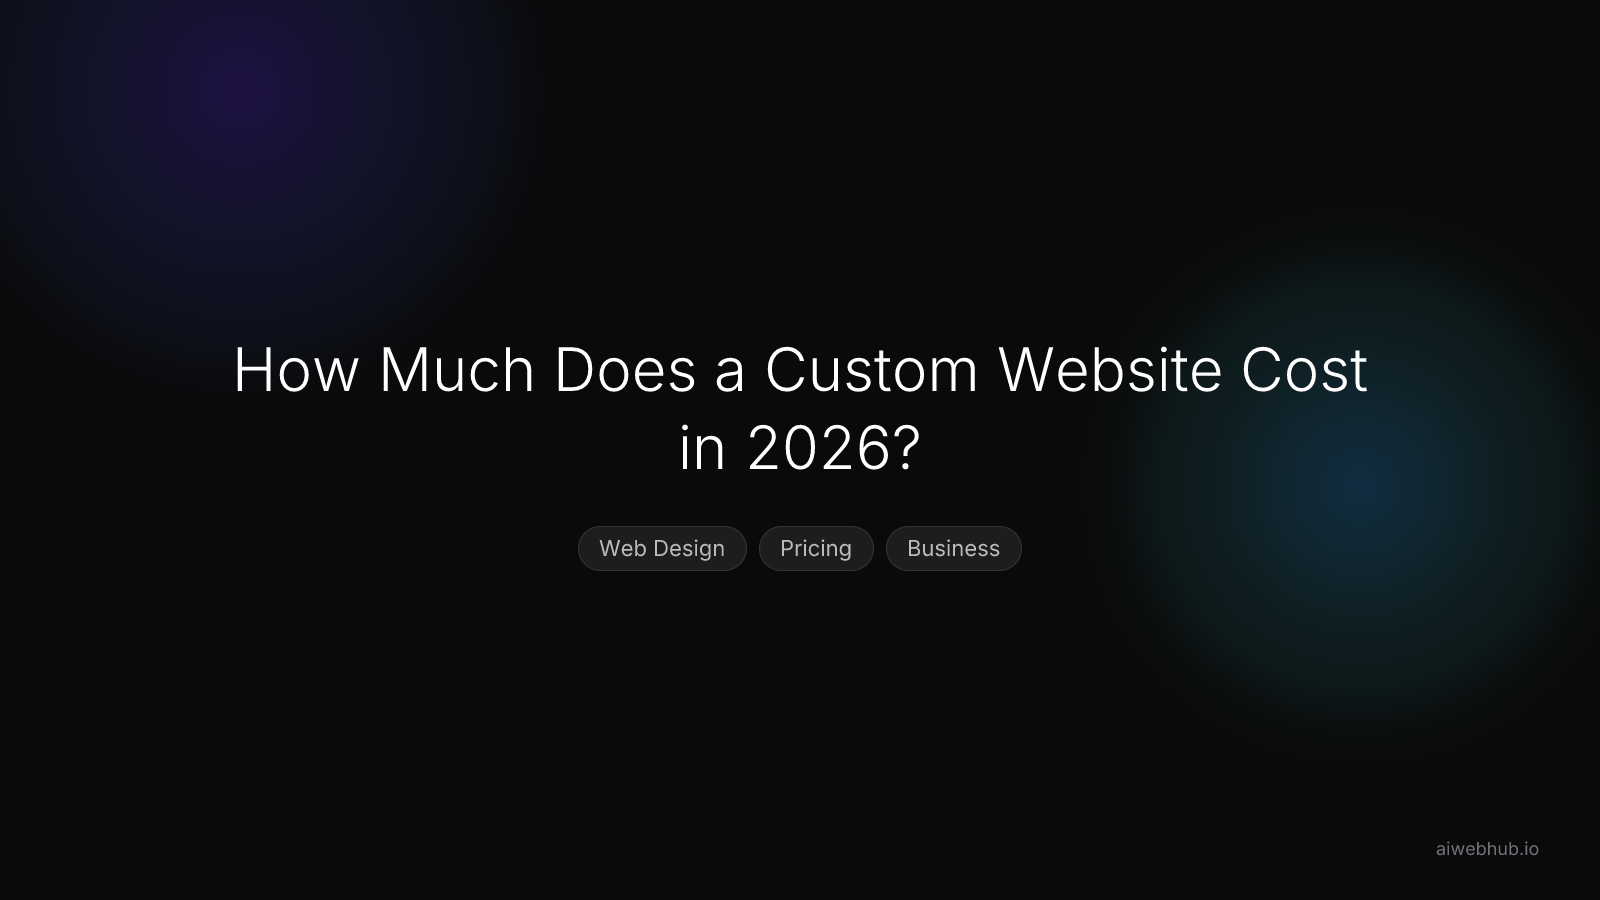
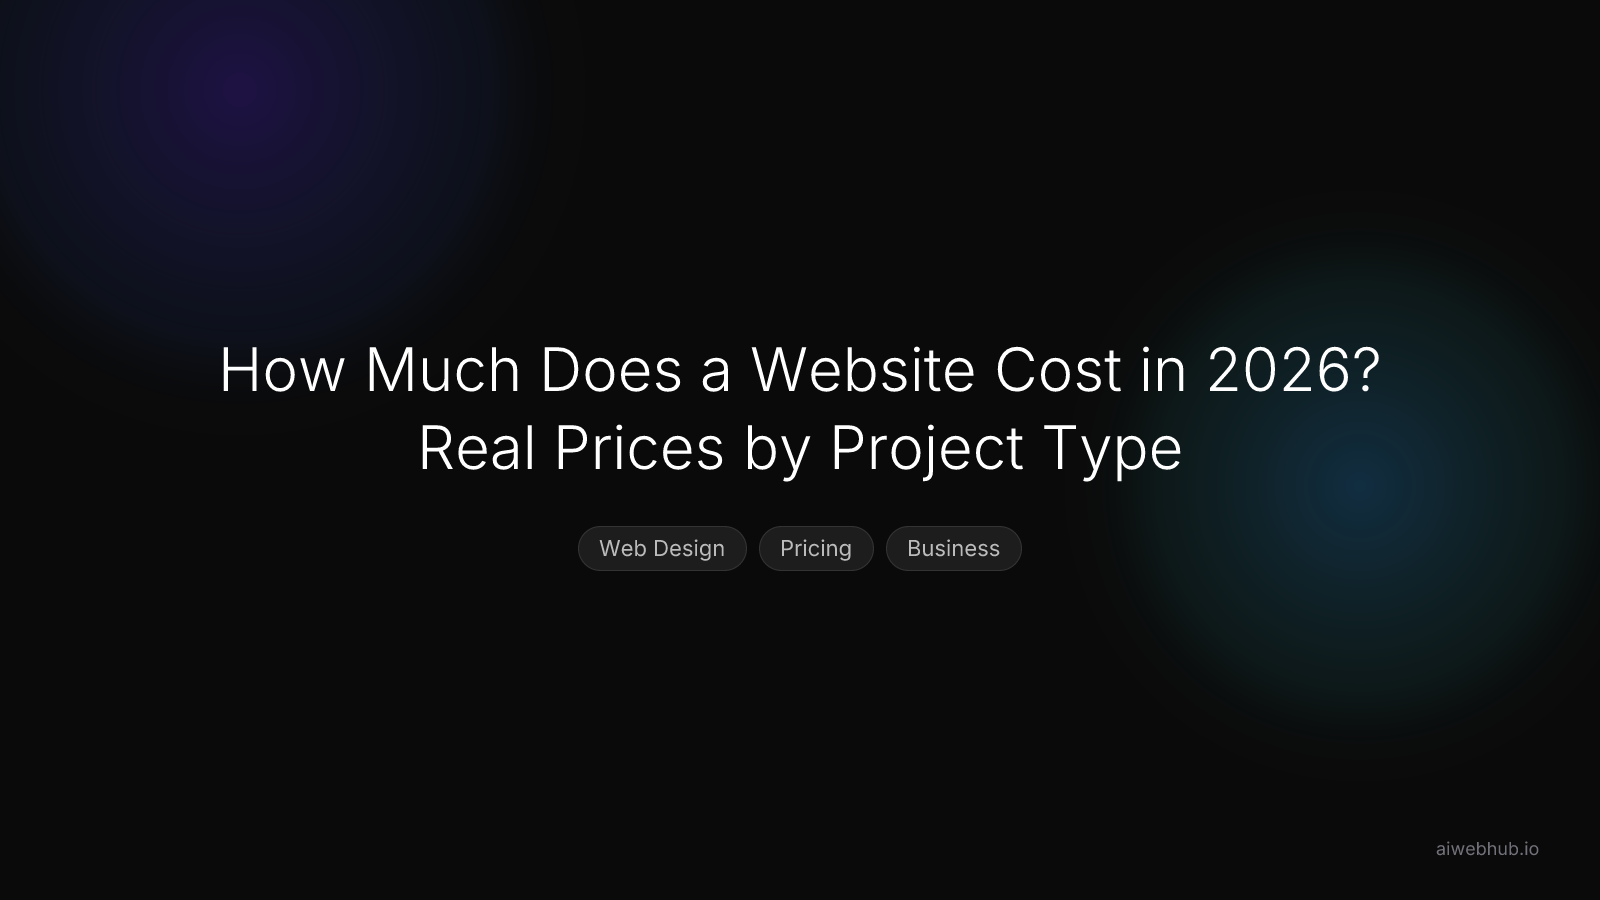
feat: retarget pricing post to 'how much does a website cost' (#18) (#32)
- New title + H1: "How Much Does a Website Cost in 2026? Real Prices by Project Type"; slug unchanged, no redirect
- Rewrote body figures to the same GoodFirms 2026 / WebFX 2026 survey bands the cost calculator renders; no AIWebHub prices anywhere
- Added a market-rate table with one row per /services project type (landing page, multi-page site, e-commerce, AI agent), both survey columns labeled by market side
- Linked the post to /tools/website-cost-calculator, /services, /contact and two related posts
- Extended the blog renderer with inline markdown links and pipe-table support (also fixes literal [link](url) text in the AI-search post)
- Regenerated the post's social image with the new title; updated title test; readTime recalculated

Changed region(s): [[0.125, 0.3733, 0.875, 0.4356], [0.25, 0.4667, 0.75, 0.5289]]

diff --git a/lib/blog-posts.ts b/lib/blog-posts.ts
@@ -15,52 +15,73 @@ export interface BlogPost {
 const blogPosts: BlogPost[] = [
   {
     slug: "how-much-does-a-custom-website-cost-in-2026",
-    title: "How Much Does a Custom Website Cost in 2026?",
-    excerpt: "A comprehensive breakdown of custom website pricing in 2026, covering landing pages, business sites, and e-commerce stores with real cost ranges and what affects your final price.",
+    title: "How Much Does a Website Cost in 2026? Real Prices by Project Type",
+    excerpt: "Surveyed 2026 market rates for landing pages, business websites, e-commerce stores, and AI agents — and why the two best pricing surveys disagree by up to 5x.",
     author: "Cosmin Balaur",
     authorTitle: "Founder & Lead Developer at AIWebHub",
     publishedDate: "2026-01-15",
-    modifiedDate: "2026-02-16",
+    modifiedDate: "2026-08-05",
     tags: ["Web Design", "Pricing", "Business"],
-    readTime: "8 min read",
+    readTime: "7 min read",
     image: "/blog/how-much-does-a-custom-website-cost-in-2026.png",
-    content: `The cost of a custom website in 2026 varies significantly based on the type of site, the features you need, and the level of customization required. Whether you are a small business owner launching your first website or an established company looking to redesign, understanding the real costs involved helps you budget effectively and avoid surprises.
+    content: `How much does a website cost in 2026? For most business projects, somewhere between $1,000 and $50,000 — and the honest answer depends as much on who you ask as on what you build. The two best available pricing surveys disagree by up to 5x on the same project. GoodFirms, which surveyed more than 300 web development firms across 31 countries, found most agencies quote $1,000–$3,000 for a basic website. WebFX, which surveyed 250 US-based marketing professionals, found US buyers report actually paying $6,500–$15,000 for the same tier. Neither number is wrong. This guide breaks down what each project type really costs, why the estimates spread that far, and how to turn a market range into a number for your own project.
 
-## Landing Pages: $300 to $1,500
+## Website Costs at a Glance: 2026 Market Rates by Project Type
 
-A landing page is a single-page website designed to convert visitors into leads or customers. It typically includes a hero section, service or product overview, testimonials, and a contact form or call-to-action. Landing pages are ideal for businesses that need a focused online presence without the complexity of a multi-page site.
+The table below shows general market rates, not AIWebHub prices — we quote every project to its scope. Each band is a range one of the two surveys actually published, shown here for a typical small-business build of each type, roughly one to fifteen pages. For a larger scope, our free [website cost calculator](/tools/website-cost-calculator) adjusts these same survey bands to your project size and shows both sides of the market for your exact configuration.
 
-At the lower end, template-based landing pages with minimal customization cost between $300 and $500. Custom-designed landing pages with unique layouts, animations, and brand-specific visual elements range from $500 to $1,500. Factors that increase the cost include custom illustrations, video integration, A/B testing setups, and advanced form integrations with CRM systems.
+| Project type | GoodFirms 2026 (global agencies quote) | WebFX 2026 (US buyers report paying) |
+| --- | --- | --- |
+| Landing page (single page) | $1,000–$3,000 | $6,500–$15,000 |
+| Multi-page business website | $5,000–$20,000 | $6,500–$15,000 |
+| E-commerce store | $5,000–$50,000 | $6,500–$15,000 |
+| AI agent (custom web application) | $20,000–$50,000 | $15,000–$50,000 |
 
-## Multi-Page Business Websites: $800 to $5,000
+Two patterns are worth noticing before anything else. Reading down the GoodFirms column, price scales with complexity, from a single conversion-focused page up to a full application. Reading across any row, the US buy-side figure runs well above the global sell-side quote. WebFX's survey has only three tiers, and everything up to a mid-sized build lands in the first one — which is itself a finding: US buyers report paying $6,500–$15,000 even for projects that agencies worldwide quote at $1,000–$3,000.
 
-A multi-page business website typically includes a homepage, about page, services page, portfolio or gallery, contact page, and potentially a blog. These sites provide a comprehensive overview of your business and are suitable for service-based companies, professional practices, and local businesses.
+## Why Do Website Cost Estimates Disagree So Much?
 
-Template-based solutions with content management systems start around $800 to $1,500. Fully custom designs with unique page layouts, content strategy, and interactive elements range from $1,500 to $5,000. The price increases with the number of pages, custom functionality like booking systems or client portals, and the depth of SEO optimization included in the initial build.
+Website cost estimates disagree because the two sides of the market are answering different questions. GoodFirms 2026 surveyed more than 300 web development firms across 31 countries — sell-side data, the prices agencies say they quote. Its own hourly-rate table puts developers in India, Pakistan, and Vietnam at $10–$15 per hour against $50–$100 per hour in the US, so its global averages sit well below what a US buyer is actually quoted. WebFX 2026 surveyed 250 US-based marketing professionals — buy-side data, what people report having paid, which includes the revisions, content work, and scope creep a quote never mentions. That is how the same basic small-business website can be $1,000–$3,000 in one survey and $6,500–$15,000 in the other. Averaging the two would manufacture a precision neither source supports, so this guide keeps both bands visible and labeled by who published them.
 
-## E-commerce Stores: $1,500 to $15,000
+## How Much Does a Landing Page Cost?
 
-E-commerce websites require additional functionality including product catalogs, shopping cart systems, secure payment processing, inventory management, and order tracking. The complexity of your product offering and the integrations you need significantly affect the final cost.
+A landing page is a single-page website designed to convert visitors into leads or customers, typically with a hero section, a service or product overview, social proof, and one prominent call to action. In the GoodFirms 2026 survey, 59.9% of firms quote a basic website or MVP at $1,000–$3,000, and 71% deliver it in two to four weeks. US buy-side data runs higher: WebFX puts a basic small-business site at $6,500–$15,000.
 
-Basic e-commerce stores with standard product listings and payment processing start at $1,500 to $3,000. Mid-range stores with custom product configurators, subscription models, and multi-channel inventory sync range from $3,000 to $8,000. Enterprise-level e-commerce platforms with custom features, AI-powered recommendations, POS integration, and advanced analytics can cost $8,000 to $15,000 or more.
+The bottom of this range is compressing faster than any other. GoodFirms reports that 33.5% of firms now price AI-builder websites at $500–$1,500, another 23.7% below $500, and that simple websites which cost $5,000 three years ago are now being built for under $1,500. If you are weighing a single page against a full site, our guide on [landing pages versus multi-page websites](/blog/landing-page-vs-multi-page-website-which-does-your-business-need) covers when each is the right call.
 
-## What Affects the Final Price
+## How Much Does a Multi-Page Business Website Cost?
 
-Several factors influence the cost of a custom website beyond the basic type. Design complexity is a major factor—sites with custom animations, parallax effects, and unique interactive elements cost more than straightforward layouts. The amount of content creation involved matters too, as writing and optimizing copy, sourcing photography, and creating graphics all add to the project scope.
+A multi-page business website — homepage, about, services, portfolio, contact, usually a blog — is the standard build for service businesses and professional practices. GoodFirms 2026 puts a mid-sized website at $5,000–$20,000, the most common range for 53.9% of firms, typically delivered in four to eight weeks. A CMS-based build, one you can update yourself without a developer, lands in the same $5,000–$20,000 band for 45.4% of firms.
 
-Technical integrations such as CRM connections, payment gateways, booking systems, and third-party API connections increase both development time and cost. AI-powered features like chatbots, intelligent search, and personalized recommendations are becoming increasingly common but add a layer of development complexity. SEO strategy and implementation during the build phase is another cost factor that pays dividends in long-term organic traffic.
+On the US buy side, WebFX reports $6,500–$15,000 for a basic small-business site and $15,000–$50,000 once a project grows into its intermediate tier. Where your project lands inside those bands comes down mostly to page count, how much of the design is custom, and functionality like booking systems or client portals.
 
-## Ongoing Costs to Consider
+## How Much Does an E-commerce Store Cost?
 
-Beyond the initial build, websites require ongoing investment. Hosting typically costs $10 to $100 per month depending on traffic and performance requirements. Domain registration runs $10 to $50 per year. SSL certificates are often included with modern hosting but can be a separate cost. Content updates, security patches, and performance monitoring are ongoing needs that many businesses address through monthly maintenance plans.
+E-commerce carries the widest band in either survey, because an online store can mean twelve products with a standard checkout or thousands of SKUs with inventory sync and POS integration. In the GoodFirms 2026 data, 74% of firms place e-commerce projects at $5,000–$50,000 — the widest most-common range of any vertical the survey measured — with enterprise builds at $20,000–$50,000.
 
-At AIWebHub, our maintenance and support plans are scoped to each site and include hosting, updates, security monitoring, and content adjustments. This bundled approach is often more cost-effective than managing each service separately.
+WebFX prices the store functionality itself — catalog, cart, checkout, payments — at $5,000–$25,000 on top of the base build, and puts advanced enterprise websites at $50,000–$100,000. The spread inside these bands is driven by integrations: payment gateways, shipping and tax rules, inventory systems, and the product content work that most store budgets underestimate.
 
-## How to Get the Best Value
+## How Much Does an AI Agent Cost?
 
-The best approach is to start with a clear understanding of your goals and priorities. Define what your website needs to accomplish—whether that is generating leads, selling products, or establishing credibility. Share your budget range upfront with your developer so they can recommend the most impactful features within your means. Consider a phased approach where you launch with core functionality and add features over time as your business grows.
+Neither survey publishes an AI-agent-specific price band — the category is too new for the 2026 survey cycles. The closest surveyed category is the custom web application: $20,000–$50,000 in GoodFirms 2026, the most common range for 35.5% of firms with typical delivery in eight to sixteen weeks, and $15,000–$50,000 in WebFX's intermediate tier. An agent that answers customers, connects to your booking or ordering systems, and reports into a dashboard is structurally a web application, which is why that row is the honest proxy.
 
-At AIWebHub, every custom website is quoted to your scope and goals, with solutions that scale to match your business needs. We provide transparent quotes with detailed breakdowns so you know exactly what you are paying for and why. Contact us for a free consultation to discuss your project and receive a personalized estimate.`
+In practice, AI agent scope varies more than any other project type on this list. A single-workflow agent built on an existing platform is a very different project from a multi-system autonomous assistant, which is why agents are quoted per project rather than off a rate card. Our article on [what AI agents are and how they help businesses](/blog/what-are-ai-agents-and-how-they-help-businesses-in-2026) explains the build patterns behind that range.
+
+## What Moves a Real Quote Up or Down
+
+Four things reliably push quotes up. Custom design rather than a theme: GoodFirms' budget-split data puts design at 10–20% of a typical build. Integrations with software you already run, such as booking, POS, CRM, or inventory systems. Content you need written: WebFX puts copywriting at $60–$300 per page and a full SEO engagement at $2,000–$10,000. And compliance: healthcare and finance projects sit a full tier above comparable builds in the GoodFirms vertical data.
+
+The levers that pull a quote down are just as concrete. Having your copy and photography ready before design starts. Choosing fewer, better pages — page count is the clearest cost lever there is. Accepting a template where it will not be seen. And launching a core site first, then adding features once the site is earning.
+
+## Ongoing Costs: What a Website Costs After Launch
+
+The build price is not the whole bill. GoodFirms 2026 reports monthly retainers of $500–$3,000 for nearly 58% of the market, and estimates that the real cost of a professionally built website is 100–200% higher than the build price once hosting, maintenance, integrations, and post-launch updates are counted. WebFX's US respondents report most businesses spending $501–$5,000 per year on upkeep — a figure that reads low because it includes owners running DIY-builder sites themselves. For a professionally maintained business site, the retainer band is the more honest guide.
+
+## How to Get a Real Number for Your Project
+
+Market ranges tell you what the market charges; they cannot tell you what your project costs. Start by defining what the website needs to accomplish — leads, sales, credibility — and roughly how large it needs to be. Then run your project type and size through our free [website cost calculator](/tools/website-cost-calculator), which shows both survey bands for your exact configuration and explains why they differ.
+
+When you are ready for an actual number, at AIWebHub every website and AI agent is quoted to your scope and goals, with a transparent breakdown so you know exactly what you are paying for and why. See what we build on our [services page](/services), and [contact us](/contact) for a free consultation and a personalized quote.`
   },
   {
     slug: "what-is-ai-integration-and-why-your-business-needs-it",

diff --git a/app/blog/[slug]/page.tsx b/app/blog/[slug]/page.tsx
@@ -3,7 +3,123 @@ import { abs, ORG, SITE_URL, pageMetadata } from '@/lib/site'
 import { GradientButton } from '@/components/ui/gradient-button'
 import { ArrowLeft, Clock, User, Calendar } from 'lucide-react'
 import type { Metadata } from 'next'
+import type { ReactNode } from 'react'
 import Link from 'next/link'
+
+// --- Content rendering helpers ---------------------------------------------
+// The blog renderer supports exactly three constructs: `## ` section headings,
+// plain paragraphs separated by blank lines, and (below) inline markdown links
+// plus pipe-delimited tables. Anything else renders as literal text.
+
+/** Render `[label](href)` markdown links inside a paragraph; internal paths use <Link>. */
+function renderInline(text: string): ReactNode[] {
+  // split() with capture groups yields [before, label, href, before, label, href, ..., after]
+  const parts = text.split(/\[([^\]]+)\]\(([^)\s]+)\)/g)
+  const nodes: ReactNode[] = []
+  for (let i = 0; i < parts.length; i += 3) {
+    if (parts[i]) nodes.push(parts[i])
+    const label = parts[i + 1]
+    const href = parts[i + 2]
+    if (label !== undefined && href !== undefined) {
+      const linkClass =
+        'text-zinc-200 underline decoration-zinc-600 underline-offset-4 transition-colors hover:text-white hover:decoration-zinc-300'
+      nodes.push(
+        href.startsWith('/') ? (
+          <Link key={i} href={href} className={linkClass}>
+            {label}
+          </Link>
+        ) : (
+          <a key={i} href={href} className={linkClass}>
+            {label}
+          </a>
+        )
+      )
+    }
+  }
+  return nodes
+}
+
+/** A block is a table when every line is a pipe-delimited row. */
+function isTableBlock(block: string): boolean {
+  const lines = block.split('\n')
+  return lines.length > 1 && lines.every((line) => line.trim().startsWith('|'))
+}
+
+function parseTable(block: string): { header: string[]; rows: string[][] } {
+  const allRows = block.split('\n').map((line) =>
+    line
+      .trim()
+      .replace(/^\|/, '')
+      .replace(/\|$/, '')
+      .split('|')
+      .map((cell) => cell.trim())
+  )
+  const header = allRows[0]
+  const rows = allRows.slice(1).filter((cells) => !cells.every((cell) => /^:?-{3,}:?$/.test(cell)))
+  return { header, rows }
+}
+
+function ContentTable({ block }: { block: string }) {
+  const { header, rows } = parseTable(block)
+  return (
+    <div className="mb-6 overflow-x-auto rounded-xl border border-white/10">
+      <table className="w-full text-sm">
+        <thead>
+          <tr className="border-b border-white/10 bg-white/[0.03]">
+            {header.map((cell, i) => (
+              <th
+                key={i}
+                scope="col"
+                className="px-4 py-3 text-left text-xs font-medium uppercase tracking-wider text-zinc-500"
+              >
+                {cell}
+              </th>
+            ))}
+          </tr>
+        </thead>
+        <tbody>
+          {rows.map((cells, r) => (
+            <tr key={r} className="border-b border-white/5 last:border-0">
+              {cells.map((cell, c) => (
+                <td
+                  key={c}
+                  className={
+                    c === 0
+                      ? 'px-4 py-3 text-zinc-200'
+                      : 'whitespace-nowrap px-4 py-3 tabular-nums text-zinc-400'
+                  }
+                >
+                  {cell}
+                </td>
+              ))}
+            </tr>
+          ))}
+        </tbody>
+      </table>
+    </div>
+  )
+}
+
+/** Paragraphs and tables within an intro or a headed section. */
+function ArticleBody({ text }: { text: string }) {
+  return (
+    <>
+      {text
+        .split('\n\n')
+        .filter(Boolean)
+        .map((block, i) => {
+          const trimmed = block.trim()
+          return isTableBlock(trimmed) ? (
+            <ContentTable key={i} block={trimmed} />
+          ) : (
+            <p key={i} className="text-sm sm:text-base text-zinc-400 leading-relaxed mb-4">
+              {renderInline(trimmed)}
+            </p>
+          )
+        })}
+    </>
+  )
+}
 
 export function generateStaticParams() {
   return getAllPosts().map((post) => ({
@@ -167,11 +283,7 @@ export default async function BlogPostPage({ params }: { params: Promise<{ slug:
           {/* Intro */}
           {intro && (
             <div className="mb-10">
-              {intro.split('\n\n').filter(Boolean).map((paragraph, i) => (
-                <p key={i} className="text-sm sm:text-base text-zinc-400 leading-relaxed mb-4">
-                  {paragraph.trim()}
-                </p>
-              ))}
+              <ArticleBody text={intro} />
             </div>
           )}
 
@@ -181,11 +293,7 @@ export default async function BlogPostPage({ params }: { params: Promise<{ slug:
               <h2 className="text-xl sm:text-2xl font-light text-zinc-100 tracking-tight mb-4">
                 {section.heading}
               </h2>
-              {section.body.split('\n\n').filter(Boolean).map((paragraph, i) => (
-                <p key={i} className="text-sm sm:text-base text-zinc-400 leading-relaxed mb-4">
-                  {paragraph.trim()}
-                </p>
-              ))}
+              <ArticleBody text={section.body} />
             </div>
           ))}
         </article>

diff --git a/tests/blog-posts.test.ts b/tests/blog-posts.test.ts
@@ -12,7 +12,9 @@ describe("blog content query interface", () => {
     const post = getPostBySlug(slug);
     expect(post).toBeDefined();
     expect(post?.slug).toBe(slug);
-    expect(post?.title).toBe("How Much Does a Custom Website Cost in 2026?");
+    expect(post?.title).toBe(
+      "How Much Does a Website Cost in 2026? Real Prices by Project Type",
+    );
   });
 
   test("getPostBySlug returns undefined for an unknown slug (slug miss)", () => {
